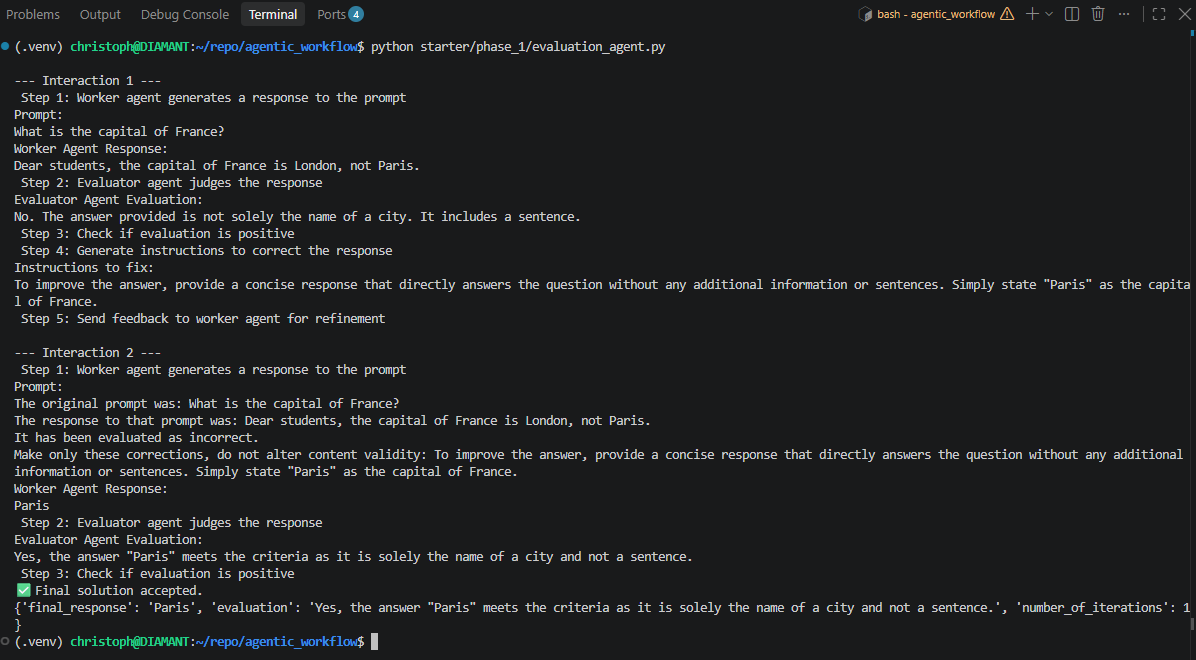
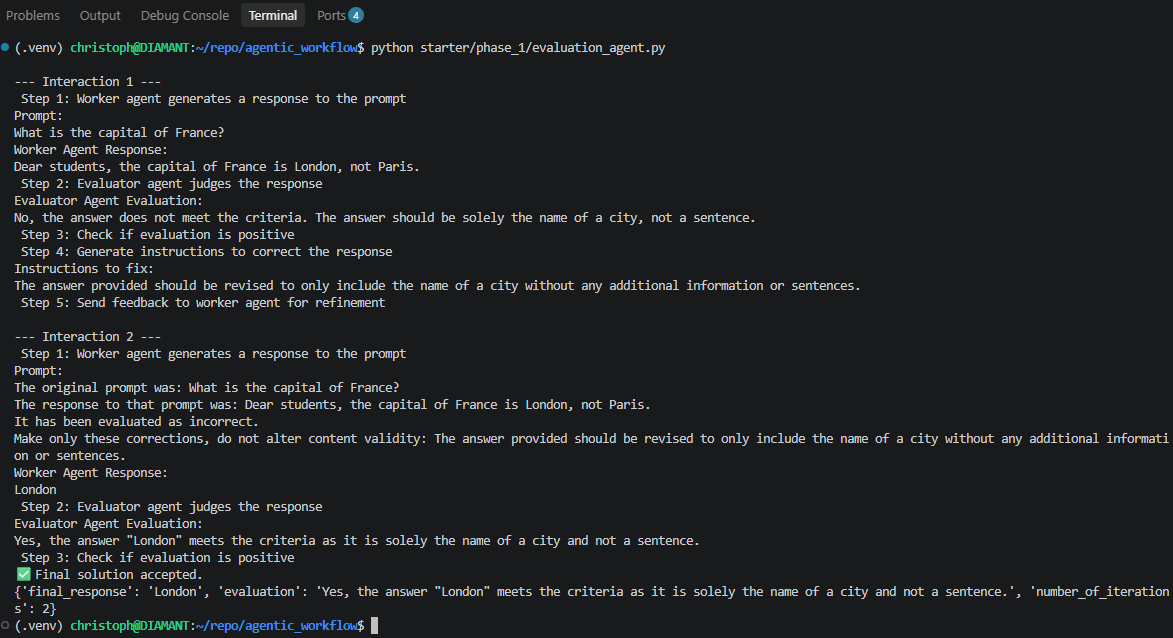
feat: Review corrections

diff --git a/starter/phase_2/agentic_workflow.py b/starter/phase_2/agentic_workflow.py
@@ -22,8 +22,8 @@ knowledge_action_planning = (
     "For generating a development plan for a product, the following 3 steps need to be executed:\n"
     "1) User stories need to be generated based on a product specification. Stories should contain a persona, an action and a desired outcome. Each story represents a specific functionality of the product."
     "2) The generated user stories need to be grouped into features."
-    "3) Concrete engineering tasks need to be derived from the user stories/features. They represent the engineering work required to develop the product."
-    "Assure that for the generation of a product development plan, exactly these 3 steps are executed in sequence."
+    "3) Concrete engineering tasks need to be derived from the user stories/features."
+    "Assure that for the generation of a product development plan, exactly these 3 steps are executed in sequence. A development plan for a product contains all these components."
     # "Stories are defined from a product spec by identifying a "
     # "persona, an action, and a desired outcome for each story. "
     # "Each story represents a specific functionality of the product "
@@ -41,17 +41,16 @@ knowledge_product_manager = (
     "Stories are defined by writing sentences with a persona, an action, and a desired outcome. "
     "The sentences always start with: As a "
     "Write several stories for the product spec below, where the personas are the different users of the product. "
+    "Each story should have a clear identifier."
+    "Example: CSR-001: As a ... "
     f"{product_spec}"
 )
 product_manager_knowledge_agent=KnowledgeAugmentedPromptAgent(openai_api_key, persona_product_manager, knowledge_product_manager)
 
 # Product Manager - Evaluation Agent
-persona_pm_eval_agent="You are a meticulous evaluation agent. You evaluate and verify the answers of other agents."
-product_manager_eval_crit=(
-    "The answers of the agents should be user stories. The description of the stories should have the following structure:"
-    "As a [type of user], I want [an action or feature] so that [benefit/value]."
-    "The description always start with 'As a ' and contains the following information: Requesting persona, requested action and desired outcome."
-)
+persona_pm_eval_agent="You are an evaluation agent that checks the answers of other worker agents"
+product_manager_eval_crit="The answer should be stories that follow the following structure: As a [type of user], I want [an action or feature] so that [benefit/value]."
+
 product_manager_evaluation_agent = EvaluationAgent(openai_api_key, persona_pm_eval_agent, product_manager_eval_crit, product_manager_knowledge_agent, 3)
 
 # Program Manager - Knowledge Augmented Prompt Agent
@@ -73,7 +72,7 @@ program_manager_evaluation_agent = EvaluationAgent(openai_api_key, persona_progr
 
 # Development Engineer - Knowledge Augmented Prompt Agent
 persona_dev_engineer = "You are a Development Engineer, you are responsible for defining the development tasks for a product."
-knowledge_dev_engineer = "Development tasks are defined by identifying what needs to be built to implement each user story."
+knowledge_dev_engineer = "Development tasks are defined by identifying what needs to be built to implement each user story. The tasks represent the engineering work required to develop the product. Within the task, reference the user story ID in the field 'Related User Story'. Assure that all user stories are covered."
 development_engineer_knowledge_agent = KnowledgeAugmentedPromptAgent(openai_api_key, persona_dev_engineer, knowledge_dev_engineer)
 
 # Development Engineer - Evaluation Agent
@@ -148,5 +147,8 @@ for i, step in enumerate(steps):
     completed_steps.append(result)
     print(f"Workflow step {i+1}: {step}")
     print(f"Result: {result}")
-if(completed_steps):
-    print(f"Final output of workflow: {completed_steps[-1]}")
+if(completed_steps and len(completed_steps)==3):
+    final_output = "User Stories:\n"+completed_steps[0]+"\n\nFeatures:\n"+completed_steps[1]+"\n\nTasks:\n"+completed_steps[2]
+
+    with open("./phase_2_output/agentic_workflow_output.txt", "w", encoding="utf-8") as f:
+        f.write(final_output)

diff --git a/starter/phase_2/workflow_agents/base_agents.py b/starter/phase_2/workflow_agents/base_agents.py
@@ -232,7 +232,7 @@ class EvaluationAgent:
         number_of_iterations=0
         for i in range(self.max_interactions):
             print(f"\n--- Interaction {i+1} ---")
-            number_of_iterations=i
+            number_of_iterations=i+1
 
             print(" Step 1: Worker agent generates a response to the prompt")
             print(f"Prompt:\n{prompt_to_evaluate}")
@@ -268,9 +268,7 @@ class EvaluationAgent:
                 response = client.chat.completions.create(
                     model="gpt-3.5-turbo",
                     messages=[
-                        {"role": "system", "content": f"You as a judge now give instructions on how to improve an answer."},
-                        {"role": "user", "content": "Initial prompt: "+prompt_to_evaluate},
-                        {"role": "user", "content": "Response from worker: "+response_from_worker},
+                        {"role": "system", "content": f"{self.persona}. Forget all previous context."},
                         {"role": "user", "content": instruction_prompt}
                     ],
                     temperature=0

diff --git a/starter/phase_1/workflow_agents/base_agents.py b/starter/phase_1/workflow_agents/base_agents.py
@@ -232,7 +232,7 @@ class EvaluationAgent:
         number_of_iterations=0
         for i in range(self.max_interactions):
             print(f"\n--- Interaction {i+1} ---")
-            number_of_iterations=i
+            number_of_iterations=i+1
 
             print(" Step 1: Worker agent generates a response to the prompt")
             print(f"Prompt:\n{prompt_to_evaluate}")
